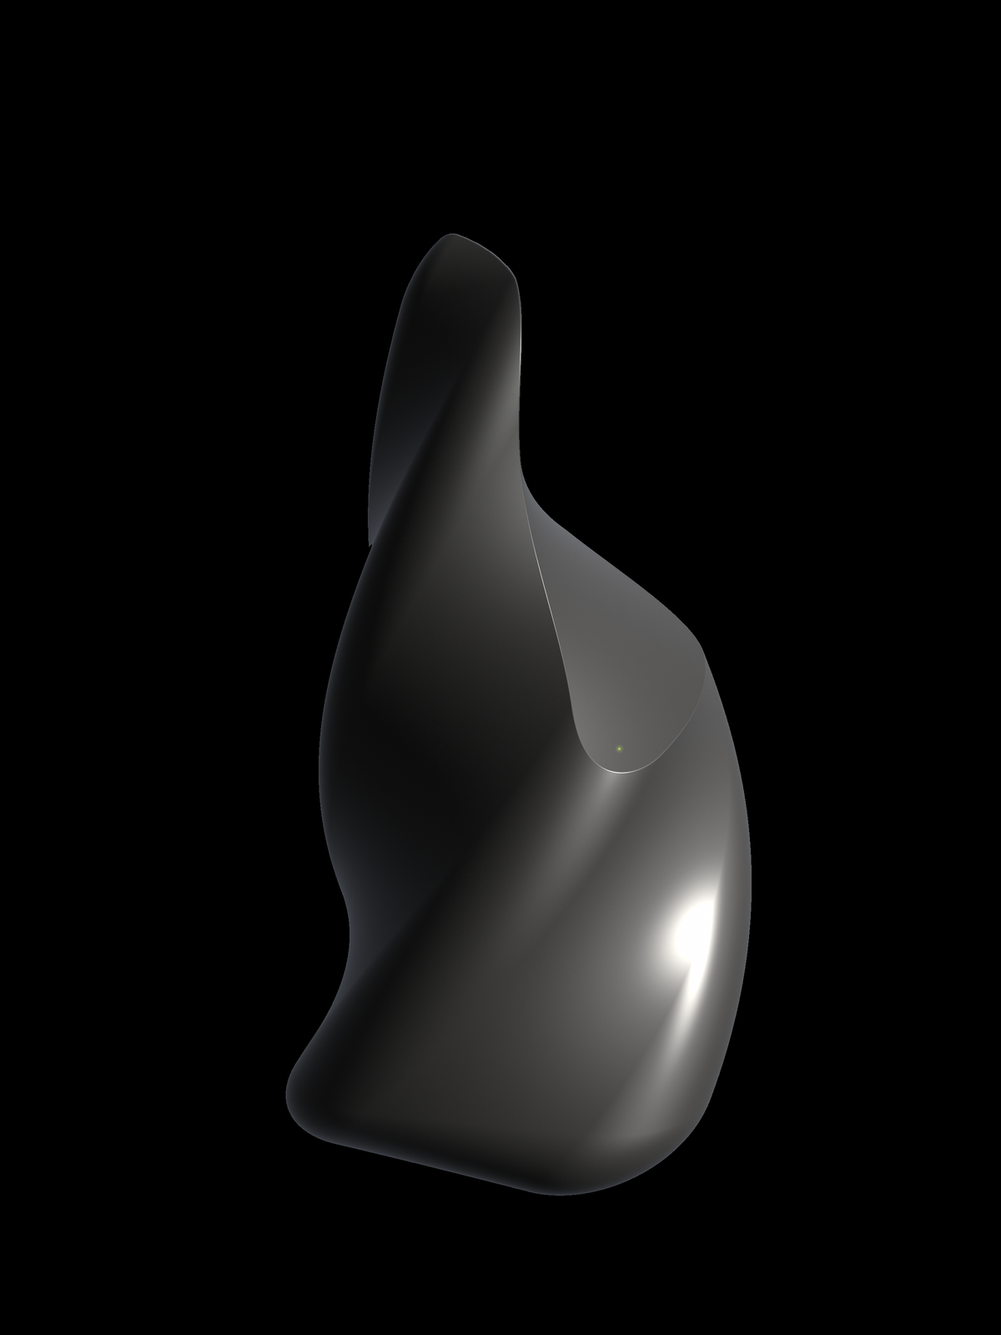
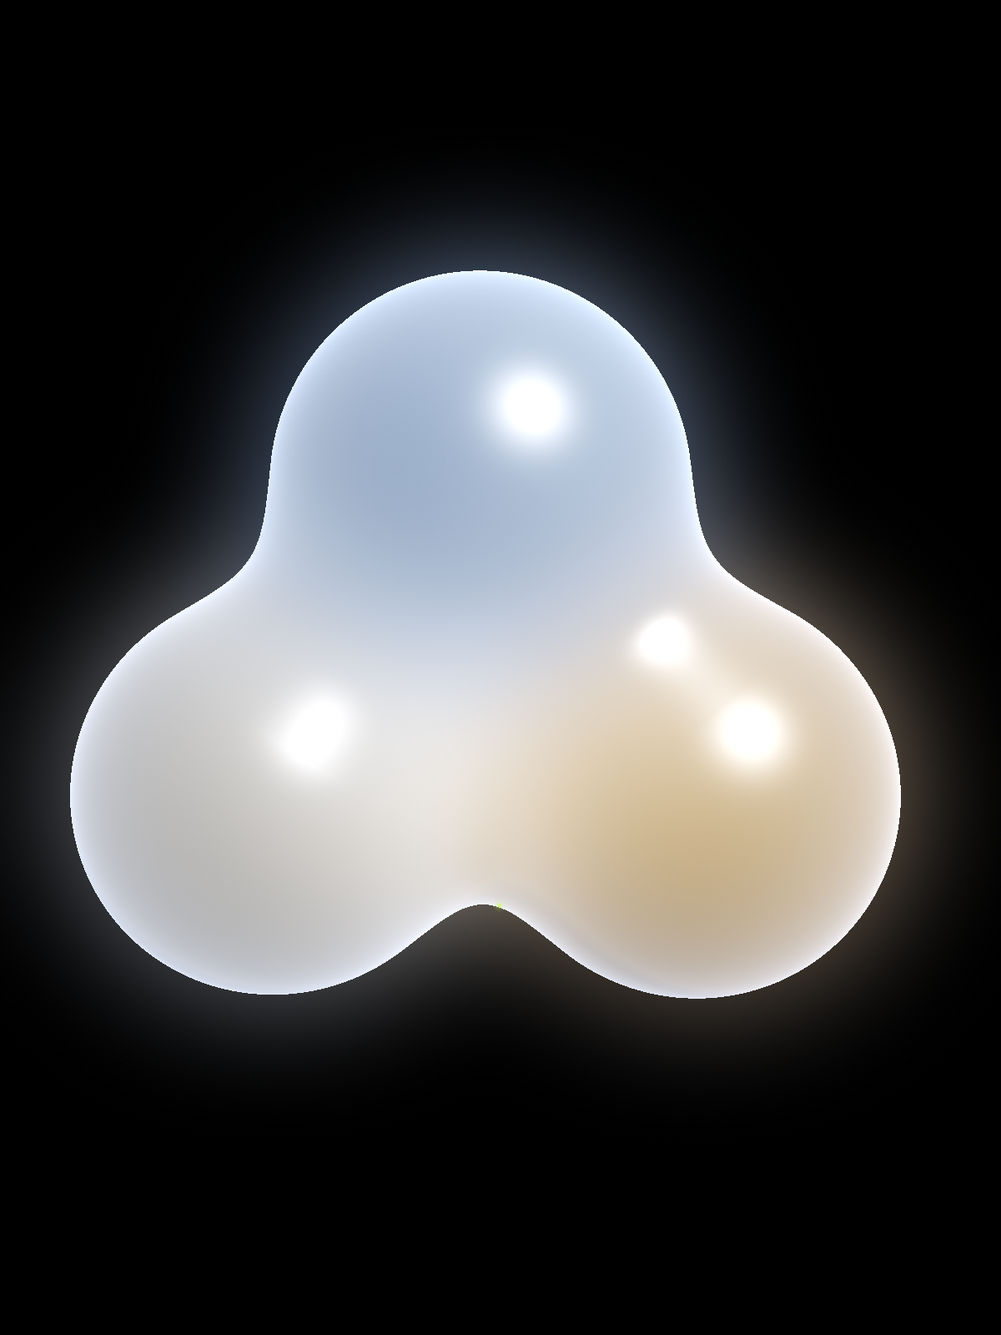
V10: Extend hero art direction site-wide; new glass-orb hero artwork
Sitewide lime audit: the hero treats lime as a single tiny indicator,
but every section below it still splashed accent color across
borders, hover states, eyebrows, badges, and mockup chrome — the
generic "AI SaaS" tell the hero was built to get away from. Pruned
decorative accent to neutral ink/muted/border-strong equivalents
across navigation, project cards (Flagship/Featured/Compact),
case-study components (hero, nav, section, role block, architecture
diagram, visual-evidence mockups), section eyebrows, the resume and
about pages, and the resume download button (was a lime pill,
now matches the ink-filled physical Button language). The only
lime left on the site is the StatusDot indicator, focus-visible
outlines, the skip-link, and the hero artwork's own baked-in glint —
verified by a DOM sweep of every computed accent-colored element on
the homepage.

Replaced the hero artwork's material and composition: three
translucent glass lobes (cool/neutral/warm) converging into a single
soft light source, rendered with a second raymarcher pass (wrap
diffuse, Fresnel, an inner glow at the convergence point, and a
Gaussian-blur bloom pass) instead of the opaque satin-stone monolith.
No text labels are baked into the artwork and no metrics were
invented — the proof strip still reads 350+ / 116 / 89.1% / 1 week,
the only real numbers this portfolio has.

Reworked ProofStrip (dropped the bordered-grid/KPI-card feel for
[…]

diff --git a/components/case-studies/VisualEvidence.tsx b/components/case-studies/VisualEvidence.tsx
@@ -20,7 +20,7 @@ function Chrome({ children }: { children: React.ReactNode }) {
 }
 
 function Bar({ w, tone = 'muted' }: { w: string; tone?: 'muted' | 'accent' | 'ink' }) {
-  const color = tone === 'accent' ? 'bg-accent/70' : tone === 'ink' ? 'bg-ink/40' : 'bg-border-strong';
+  const color = tone === 'accent' ? 'bg-ink/60' : tone === 'ink' ? 'bg-ink/40' : 'bg-border-strong';
   return <span className={`block h-1.5 rounded-full ${color}`} style={{ width: w }} />;
 }
 
@@ -42,7 +42,7 @@ function CareerOSMockup() {
             whileInView={{ opacity: 1, y: 0 }}
             viewport={{ once: true, margin: '-60px' }}
             transition={{ duration: 0.4, delay: ci * 0.09, ease: [0.16, 1, 0.3, 1] }}
-            className={col.flagged ? 'rounded-md border border-accent/40 bg-accent/5 p-2' : 'rounded-md border border-border p-2'}
+            className={col.flagged ? 'rounded-md border border-border-strong bg-surface p-2' : 'rounded-md border border-border p-2'}
           >
             <p className="font-mono text-[9px] uppercase tracking-wider text-faint sm:text-[10px]">{col.label}</p>
             <div className="mt-2 space-y-1.5">
@@ -61,13 +61,13 @@ function CareerOSMockup() {
         whileInView={{ opacity: 1, y: 0 }}
         viewport={{ once: true, margin: '-60px' }}
         transition={{ duration: 0.4, delay: columns.length * 0.09, ease: [0.16, 1, 0.3, 1] }}
-        className="mt-4 flex items-center gap-2 rounded-md border border-accent/30 bg-accent/5 px-3 py-2"
+        className="mt-4 flex items-center gap-2 rounded-md border border-border-strong bg-surface px-3 py-2"
       >
         <span className="relative flex h-1.5 w-1.5 shrink-0">
-          <span className="absolute inline-flex h-full w-full animate-ping rounded-full bg-accent opacity-60 motion-reduce:hidden" />
-          <span className="relative inline-flex h-1.5 w-1.5 rounded-full bg-accent" />
+          <span className="absolute inline-flex h-full w-full animate-ping rounded-full bg-ink opacity-40 motion-reduce:hidden" />
+          <span className="relative inline-flex h-1.5 w-1.5 rounded-full bg-ink" />
         </span>
-        <span className="font-mono text-[10px] uppercase tracking-wider text-accent">Human review required — salary unverified</span>
+        <span className="font-mono text-[10px] uppercase tracking-wider text-ink">Human review required — salary unverified</span>
       </motion.div>
     </Chrome>
   );
@@ -97,8 +97,8 @@ function CommandCenterMockup() {
       </div>
       <div className="mt-4 flex items-center gap-2">
         <span className="relative flex h-1.5 w-1.5">
-          <span className="absolute inline-flex h-full w-full animate-ping rounded-full bg-accent opacity-60" />
-          <span className="relative inline-flex h-1.5 w-1.5 rounded-full bg-accent" />
+          <span className="absolute inline-flex h-full w-full animate-ping rounded-full bg-ink opacity-40" />
+          <span className="relative inline-flex h-1.5 w-1.5 rounded-full bg-ink" />
         </span>
         <span className="font-mono text-[10px] uppercase tracking-wider text-faint">Live · polling every 30s</span>
       </div>
@@ -122,7 +122,7 @@ function OpsIntelMockup() {
         </div>
         <div>
           <p className="font-mono text-[10px] uppercase tracking-wider text-faint">Structured record</p>
-          <div className="mt-2 space-y-1.5 rounded-md border border-accent/30 bg-accent/5 p-3">
+          <div className="mt-2 space-y-1.5 rounded-md border border-border-strong bg-surface p-3">
             {['site', 'status', 'blocker', 'timestamp'].map((field) => (
               <div key={field} className="flex items-center justify-between gap-3">
                 <span className="font-mono text-[10px] text-faint">{field}</span>
@@ -173,11 +173,11 @@ function AuditAIMockup() {
             ))}
           </div>
         </div>
-        <div className="rounded-md border border-accent/30 bg-accent/5 p-3 sm:col-span-1">
-          <p className="font-mono text-[9px] uppercase tracking-wider text-accent">Flagged</p>
+        <div className="rounded-md border border-border-strong bg-surface p-3 sm:col-span-1">
+          <p className="font-mono text-[9px] uppercase tracking-wider text-ink">Flagged</p>
           <div className="mt-2 space-y-2">
             {[0, 1].map((i) => (
-              <div key={i} className="rounded border border-accent/30 p-1.5">
+              <div key={i} className="rounded border border-border-strong p-1.5">
                 <Bar w={`${70 - i * 10}%`} tone="accent" />
               </div>
             ))}
@@ -225,7 +225,7 @@ function Lightbox({ image, onClose }: { image: EvidenceImage; onClose: () => voi
         type="button"
         onClick={onClose}
         aria-label="Close"
-        className="absolute right-6 top-6 rounded border border-border p-2 text-ink transition-colors hover:border-accent hover:text-accent focus-visible:outline focus-visible:outline-2 focus-visible:outline-offset-2 focus-visible:outline-accent"
+        className="absolute right-6 top-6 rounded border border-border p-2 text-ink transition-colors hover:border-border-strong focus-visible:outline focus-visible:outline-2 focus-visible:outline-offset-2 focus-visible:outline-accent"
       >
         <X className="h-5 w-5" />
       </button>
@@ -260,7 +260,7 @@ export function VisualEvidence({ kind, images, label, notes }: VisualEvidencePro
       {hasRealImages ? (
         <div>
           <div className="mb-2.5 flex items-center gap-2">
-            <span className="rounded border border-accent/40 bg-accent/10 px-2 py-0.5 font-mono text-[10px] uppercase tracking-wider text-accent">
+            <span className="rounded border border-border-strong bg-surface px-2 py-0.5 font-mono text-[10px] uppercase tracking-wider text-ink">
               {label ?? 'Live product'}
             </span>
           </div>

diff --git a/app/resume/page.tsx b/app/resume/page.tsx
@@ -36,7 +36,7 @@ export default function ResumePage() {
         </div>
 
         <section className="mt-12">
-          <h2 className="font-mono text-xs uppercase tracking-[0.2em] text-accent">Summary</h2>
+          <h2 className="font-mono text-xs uppercase tracking-[0.2em] text-faint">Summary</h2>
           <p className="mt-3 max-w-2xl text-base leading-relaxed text-muted">
             Product-minded operator bridging field operations and AI/robotics data infrastructure — seeking Associate
             Product Manager / Founder’s Office roles where technical fluency and hands-on ops execution can drive
@@ -45,7 +45,7 @@ export default function ResumePage() {
         </section>
 
         <section className="mt-12">
-          <h2 className="font-mono text-xs uppercase tracking-[0.2em] text-accent">Experience</h2>
+          <h2 className="font-mono text-xs uppercase tracking-[0.2em] text-faint">Experience</h2>
           <div className="mt-5 space-y-8">
             {experience.map((item) => (
               <div key={item.title}>
@@ -71,7 +71,7 @@ export default function ResumePage() {
         </section>
 
         <section className="mt-12">
-          <h2 className="font-mono text-xs uppercase tracking-[0.2em] text-accent">Selected projects</h2>
+          <h2 className="font-mono text-xs uppercase tracking-[0.2em] text-faint">Selected projects</h2>
           <div className="mt-5 space-y-5">
             {projects
               .filter((p) => p.tier <= 2)
@@ -88,7 +88,7 @@ export default function ResumePage() {
         </section>
 
         <section className="mt-12">
-          <h2 className="font-mono text-xs uppercase tracking-[0.2em] text-accent">Education</h2>
+          <h2 className="font-mono text-xs uppercase tracking-[0.2em] text-faint">Education</h2>
           <div className="mt-3 flex flex-wrap items-baseline justify-between gap-x-4 gap-y-1">
             <div className="min-w-0 flex-1">
               <h3 className="text-base font-semibold text-ink">{education.degree}</h3>
@@ -102,7 +102,7 @@ export default function ResumePage() {
         </section>
 
         <section className="mt-12">
-          <h2 className="font-mono text-xs uppercase tracking-[0.2em] text-accent">Skills</h2>
+          <h2 className="font-mono text-xs uppercase tracking-[0.2em] text-faint">Skills</h2>
           <div className="mt-5 grid grid-cols-1 gap-6 sm:grid-cols-2">
             {skillClusters.map((cluster) => (
               <div key={cluster.label}>
@@ -114,7 +114,7 @@ export default function ResumePage() {
         </section>
 
         <section className="mt-12">
-          <h2 className="font-mono text-xs uppercase tracking-[0.2em] text-accent">Leadership</h2>
+          <h2 className="font-mono text-xs uppercase tracking-[0.2em] text-faint">Leadership</h2>
           <div className="mt-5 space-y-4">
             {leadership.map((item) => (
               <div key={item.title} className="flex flex-wrap items-baseline justify-between gap-x-4 gap-y-1">

diff --git a/components/projects/FlagshipProject.tsx b/components/projects/FlagshipProject.tsx
@@ -7,15 +7,15 @@ export function FlagshipProject({ project }: { project: ProjectData }) {
   const href = project.caseStudyRoute ?? '#';
 
   return (
-    <Link href={href} className="group block border-t-2 border-accent/40 pt-10 transition-colors duration-300 ease-editorial hover:border-accent sm:pt-14">
+    <Link href={href} className="group block border-t-2 border-border-strong pt-10 transition-colors duration-300 ease-editorial hover:border-ink sm:pt-14">
       <div className="flex flex-wrap items-center justify-between gap-3">
-        <span className="font-mono text-5xl leading-none text-accent/50 transition-colors duration-300 group-hover:text-accent/80 sm:text-6xl">
+        <span className="font-mono text-5xl leading-none text-faint opacity-60 transition-opacity duration-300 group-hover:opacity-100 sm:text-6xl">
           {project.index}
         </span>
         <div className="flex items-center gap-3 font-mono text-[11px] uppercase tracking-wider text-faint">
           <span>{project.category}</span>
           <span>{project.status}</span>
-          <span className="text-accent">Flagship</span>
+          <span className="text-ink">Flagship</span>
         </div>
       </div>
 
@@ -24,7 +24,7 @@ export function FlagshipProject({ project }: { project: ProjectData }) {
           <h3 className="text-4xl font-semibold tracking-tight text-ink sm:text-6xl">{project.title}</h3>
           <p className="mt-3 text-lg text-muted sm:text-xl">{project.subtitle}</p>
         </div>
-        <span className="flex shrink-0 items-center gap-2 font-mono text-xs uppercase tracking-wider text-ink transition-colors group-hover:text-accent">
+        <span className="flex shrink-0 items-center gap-2 font-mono text-xs uppercase tracking-wider text-ink transition-colors group-hover:text-muted">
           View case study
           <ArrowUpRight className="h-4 w-4 transition-transform duration-300 ease-editorial group-hover:translate-x-1 group-hover:-translate-y-1" />
         </span>
@@ -46,7 +46,7 @@ export function FlagshipProject({ project }: { project: ProjectData }) {
       )}
 
       {project.principle && (
-        <p className="mt-8 border-l-2 border-accent pl-4 font-mono text-sm uppercase tracking-wide text-ink sm:text-base">
+        <p className="mt-8 border-l-2 border-border-strong pl-4 font-mono text-sm uppercase tracking-wide text-ink sm:text-base">
           {project.principle}
         </p>
       )}

diff --git a/components/projects/FeaturedProject.tsx b/components/projects/FeaturedProject.tsx
@@ -9,7 +9,7 @@ export function FeaturedProject({ project }: { project: ProjectData }) {
   return (
     <Link
       href={href}
-      className="group block border-t border-border pt-8 transition-colors duration-300 ease-editorial hover:border-accent/40 sm:pt-10"
+      className="group block border-t border-border pt-8 transition-colors duration-300 ease-editorial hover:border-border-strong sm:pt-10"
     >
       <div className="flex items-center justify-between gap-4">
         <span className="font-mono text-4xl leading-none text-faint opacity-50 sm:text-5xl">{project.index}</span>
@@ -19,7 +19,7 @@ export function FeaturedProject({ project }: { project: ProjectData }) {
       </div>
 
       {project.tagline && (
-        <p className="mt-6 font-mono text-xs uppercase tracking-[0.2em] text-accent">{project.tagline}</p>
+        <p className="mt-6 font-mono text-xs uppercase tracking-[0.2em] text-faint">{project.tagline}</p>
       )}
 
       <div className="mt-3 flex flex-col justify-between gap-6 lg:flex-row lg:items-end">
@@ -27,7 +27,7 @@ export function FeaturedProject({ project }: { project: ProjectData }) {
           <h3 className="text-2xl font-semibold tracking-tight text-ink sm:text-4xl">{project.title}</h3>
           <p className="mt-3 text-lg text-muted">{project.subtitle}</p>
         </div>
-        <span className="flex shrink-0 items-center gap-2 font-mono text-xs uppercase tracking-wider text-ink transition-colors group-hover:text-accent">
+        <span className="flex shrink-0 items-center gap-2 font-mono text-xs uppercase tracking-wider text-ink transition-colors group-hover:text-muted">
           View case study
           <ArrowUpRight className="h-4 w-4 transition-transform duration-300 ease-editorial group-hover:translate-x-1 group-hover:-translate-y-1" />
         </span>

diff --git a/components/case-studies/CaseStudySection.tsx b/components/case-studies/CaseStudySection.tsx
@@ -8,7 +8,7 @@ export function CaseStudySection({ section }: { section: CaseStudySectionData })
     <section id={section.id} className="scroll-mt-28 border-b border-border py-16 sm:py-20">
       {section.quote && (
         <div className="mx-auto mb-14 max-w-content px-6 sm:px-10">
-          <p className="max-w-3xl border-l-2 border-accent pl-6 font-mono text-2xl uppercase leading-snug tracking-tight text-ink sm:text-4xl">
+          <p className="max-w-3xl border-l-2 border-border-strong pl-6 font-mono text-2xl uppercase leading-snug tracking-tight text-ink sm:text-4xl">
             {section.quote}
           </p>
         </div>
@@ -17,7 +17,7 @@ export function CaseStudySection({ section }: { section: CaseStudySectionData })
       <div className="mx-auto grid max-w-content grid-cols-1 gap-10 px-6 sm:px-10 lg:grid-cols-[1fr_2fr] lg:gap-16">
         <div>
           {section.kicker && (
-            <p className="font-mono text-xs uppercase tracking-[0.2em] text-accent">{section.kicker}</p>
+            <p className="font-mono text-xs uppercase tracking-[0.2em] text-faint">{section.kicker}</p>
           )}
           <h2 className="mt-3 text-2xl font-semibold text-ink sm:text-3xl">{section.heading}</h2>
         </div>
@@ -33,7 +33,7 @@ export function CaseStudySection({ section }: { section: CaseStudySectionData })
             <ul className="space-y-2.5">
               {section.bullets.map((b) => (
                 <li key={b} className="flex gap-3 text-base text-muted">
-                  <span className="mt-2 h-1 w-1 shrink-0 rounded-full bg-accent" />
+                  <span className="mt-2 h-1 w-1 shrink-0 rounded-full bg-border-strong" />
                   <span>{b}</span>
                 </li>
               ))}

diff --git a/components/sections/Contact.tsx b/components/sections/Contact.tsx
@@ -4,18 +4,16 @@ import { site } from '@/data/site';
 
 export function Contact() {
   return (
-    <section id="contact" className="scroll-mt-20 py-24 sm:py-32">
+    <section id="contact" className="scroll-mt-20 py-32 sm:py-48">
       <div className="mx-auto max-w-content px-6 sm:px-10">
-        <p className="font-mono text-xs uppercase tracking-[0.2em] text-accent">System complete</p>
-
-        <div className="mt-4 max-w-2xl">
+        <div className="max-w-2xl">
           <h2 className="text-display-md font-semibold text-ink">Have a problem worth building around?</h2>
           <p className="mt-6 text-lg leading-relaxed text-muted">
             I’m looking for teams where I can own ambiguous problems from 0→1 — especially across AI, product,
             operations, and automation.
           </p>
 
-          <div className="mt-10 flex flex-wrap items-center gap-4">
+          <div className="mt-12 flex flex-wrap items-center gap-4">
             <Button href={`mailto:${site.email}`} external showArrow>
               Let’s talk
             </Button>
@@ -27,7 +25,7 @@ export function Contact() {
             </Button>
           </div>
 
-          <div className="mt-10 flex flex-wrap items-center gap-6 border-t border-border pt-6">
+          <div className="mt-16 flex flex-wrap items-center gap-6">
             <p className="font-mono text-sm text-faint">{site.email}</p>
             <StatusDot label={site.status} />
           </div>

diff --git a/components/projects/ProjectCard.tsx b/components/projects/ProjectCard.tsx
@@ -8,7 +8,7 @@ export function ProjectCard({ project, compact = false }: { project: ProjectData
   return (
     <Link
       href={href}
-      className={`group flex h-full flex-col justify-between border-t border-border transition-colors duration-300 ease-editorial hover:border-accent/40 ${
+      className={`group flex h-full flex-col justify-between border-t border-border transition-colors duration-300 ease-editorial hover:border-border-strong ${
         compact ? 'pt-5' : 'pt-6'
       }`}
     >
@@ -21,10 +21,10 @@ export function ProjectCard({ project, compact = false }: { project: ProjectData
           >
             {project.index}
           </span>
-          <ArrowUpRight className="h-4 w-4 shrink-0 text-faint transition-transform duration-300 ease-editorial group-hover:translate-x-1 group-hover:-translate-y-1 group-hover:text-accent" />
+          <ArrowUpRight className="h-4 w-4 shrink-0 text-faint transition-transform duration-300 ease-editorial group-hover:translate-x-1 group-hover:-translate-y-1 group-hover:text-ink" />
         </div>
         <h3
-          className={`mt-3 font-semibold text-ink transition-colors duration-300 group-hover:text-accent ${
+          className={`mt-3 font-semibold text-ink transition-colors duration-300 group-hover:text-muted ${
             compact ? 'text-lg' : 'text-xl sm:text-2xl'
           }`}
         >

diff --git a/components/case-studies/CaseStudyHero.tsx b/components/case-studies/CaseStudyHero.tsx
@@ -6,24 +6,13 @@ import { MetricStrip } from '@/components/ui/Metric';
 import { RoleBlock } from '@/components/case-studies/RoleBlock';
 import { Button } from '@/components/ui/Button';
 
-const MOTIF_CLASS: Record<'system' | 'grid', string> = {
-  system: 'bg-dot-pattern opacity-50',
-  grid: 'bg-grid-pattern opacity-40',
-};
-
 export function CaseStudyHero({ project }: { project: ProjectData }) {
   return (
     <header className="relative overflow-hidden border-b border-border bg-surface pb-14 pt-32 sm:pt-40">
-      {project.heroMotif && (
-        <div
-          className={`pointer-events-none absolute inset-0 [mask-image:linear-gradient(to_bottom,black,transparent)] ${MOTIF_CLASS[project.heroMotif]}`}
-          aria-hidden
-        />
-      )}
       <div className="relative mx-auto max-w-content px-6 sm:px-10">
         <Link
           href="/#work"
-          className="inline-flex items-center gap-2 font-mono text-xs uppercase tracking-wider text-muted transition-colors hover:text-accent"
+          className="inline-flex items-center gap-2 font-mono text-xs uppercase tracking-wider text-muted transition-colors hover:text-ink"
         >
           <ArrowLeft className="h-3.5 w-3.5" />
           Selected work

diff --git a/components/case-studies/ArchitectureDiagram.tsx b/components/case-studies/ArchitectureDiagram.tsx
@@ -22,14 +22,14 @@ export function ArchitectureDiagram({ data }: { data: ArchitectureDiagramData })
               onBlur={() => setActive(null)}
               className="w-full rounded-md border px-4 py-3.5 text-left transition-colors duration-300 ease-editorial focus-visible:outline focus-visible:outline-2 focus-visible:outline-offset-2 focus-visible:outline-accent sm:px-5"
               style={{
-                borderColor: active === i ? 'var(--accent-border, #c8ff4d)' : '#212426',
-                backgroundColor: active === i ? 'rgba(200,255,77,0.06)' : 'transparent',
+                borderColor: active === i ? '#4a4e51' : '#212426',
+                backgroundColor: active === i ? 'rgba(242,240,234,0.04)' : 'transparent',
               }}
             >
               <div className="flex items-center justify-between gap-4">
                 <span
                   className={`font-mono text-[11px] uppercase tracking-wider sm:text-xs ${
-                    active === i ? 'text-accent' : 'text-ink'
+                    active === i ? 'text-ink' : 'text-muted'
                   }`}
                 >
                   {String(i + 1).padStart(2, '0')} · {stage.label}

diff --git a/components/sections/HeroArtwork.tsx b/components/sections/HeroArtwork.tsx
@@ -8,17 +8,7 @@ export function HeroArtwork() {
       className="pointer-events-none relative mx-auto mb-8 h-64 w-full max-w-[19rem] overflow-hidden sm:h-80 sm:max-w-sm lg:absolute lg:inset-0 lg:mx-0 lg:mb-0 lg:h-auto lg:max-w-none lg:overflow-visible"
       aria-hidden
     >
-      <div
-        className="absolute h-40 w-64 rounded-[50%] opacity-70 sm:h-56 sm:w-80 lg:right-[8%] lg:h-72 lg:w-[26rem]"
-        style={{
-          bottom: '8%',
-          right: '18%',
-          background: 'radial-gradient(closest-side, rgba(0,0,0,0.65), transparent 72%)',
-          filter: 'blur(6px)',
-        }}
-      />
-
-      <div className="animate-ambient-drift absolute inset-0 z-10 opacity-[0.2] mix-blend-screen [background:radial-gradient(40%_32%_at_66%_36%,rgba(242,240,234,0.22),transparent_72%)]" />
+      <div className="animate-ambient-drift absolute inset-0 z-10 opacity-[0.15] mix-blend-screen [background:radial-gradient(38%_30%_at_58%_45%,rgba(242,240,234,0.2),transparent_72%)]" />
 
       <Image
         src="/hero/artwork.png"

diff --git a/components/sections/ProofStrip.tsx b/components/sections/ProofStrip.tsx
@@ -2,12 +2,12 @@ import { proofPoints } from '@/data/site';
 
 export function ProofStrip() {
   return (
-    <section className="border-b border-border bg-surface" aria-label="Evidence points">
-      <div className="mx-auto grid max-w-content grid-cols-2 gap-8 px-6 py-12 sm:px-10 md:grid-cols-4 md:gap-6">
+    <section className="border-b border-border py-16 sm:py-24" aria-label="Evidence points">
+      <div className="mx-auto flex max-w-content flex-wrap gap-x-16 gap-y-10 px-6 sm:px-10">
         {proofPoints.map((p) => (
-          <div key={p.label} className="border-l border-border pl-4">
-            <p className="font-mono text-3xl font-semibold text-ink sm:text-4xl">{p.value}</p>
-            <p className="mt-1.5 text-sm text-muted">{p.label}</p>
+          <div key={p.label}>
+            <p className="font-mono text-4xl font-semibold text-ink sm:text-5xl">{p.value}</p>
+            <p className="mt-2 text-sm text-faint">{p.label}</p>
           </div>
         ))}
       </div>

diff --git a/components/case-studies/CaseStudyPage.tsx b/components/case-studies/CaseStudyPage.tsx
@@ -25,10 +25,10 @@ export function CaseStudyPage({ project }: { project: ProjectData }) {
           <p className="font-mono text-xs uppercase tracking-[0.2em] text-faint">Next</p>
           {next.caseStudyRoute ? (
             <Link href={next.caseStudyRoute} className="group mt-3 inline-flex items-baseline gap-4">
-              <span className="text-3xl font-semibold text-ink transition-colors group-hover:text-accent sm:text-4xl">
+              <span className="text-3xl font-semibold text-ink transition-colors group-hover:text-muted sm:text-4xl">
                 {next.title}
               </span>
-              <ArrowRight className="h-6 w-6 text-faint transition-transform duration-300 ease-editorial group-hover:translate-x-1 group-hover:text-accent" />
+              <ArrowRight className="h-6 w-6 text-faint transition-transform duration-300 ease-editorial group-hover:translate-x-1 group-hover:text-muted" />
             </Link>
           ) : null}
         </div>
